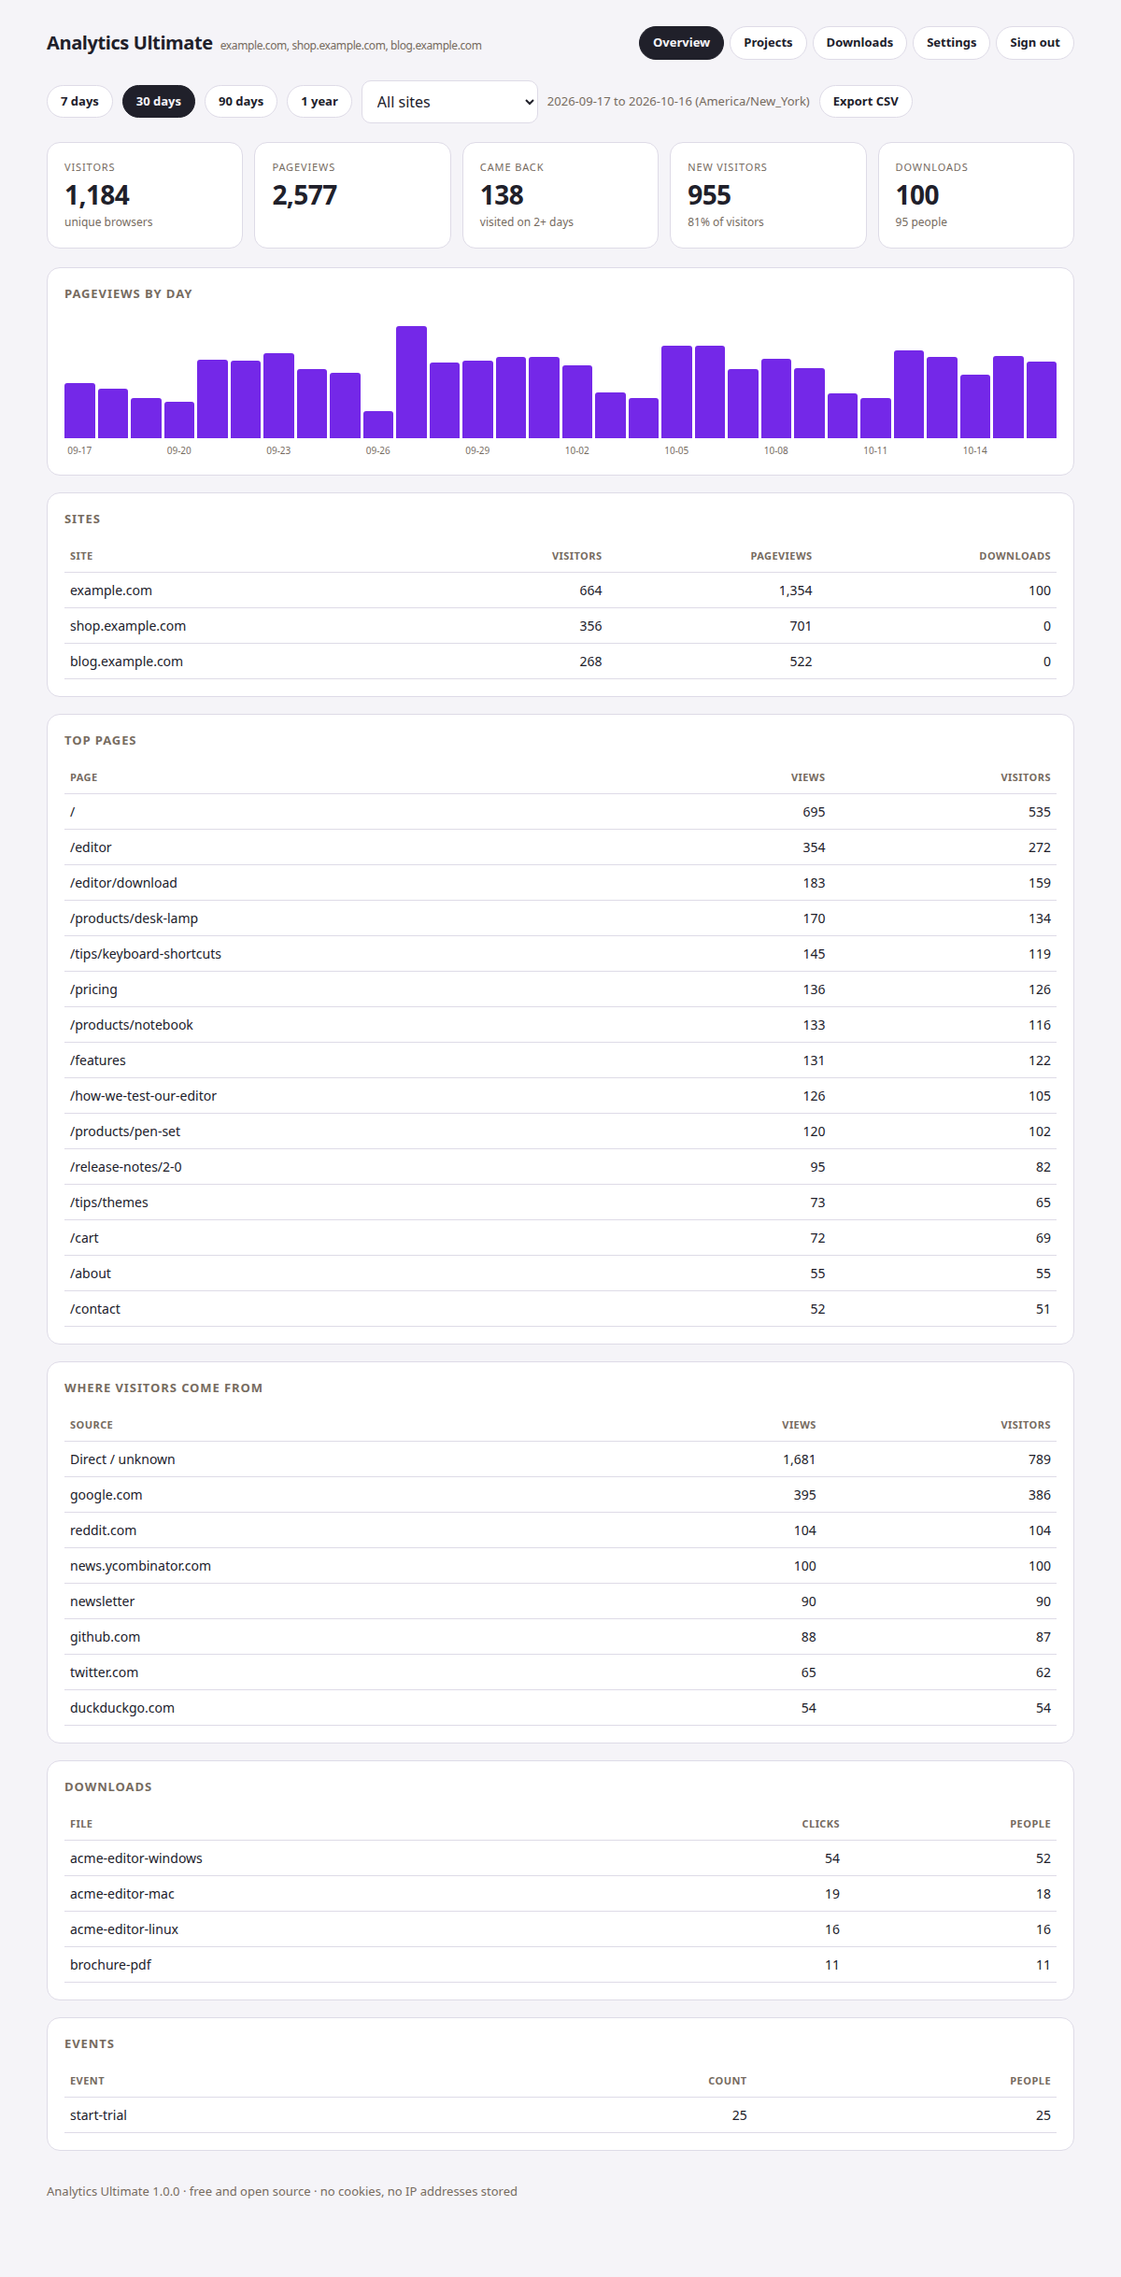
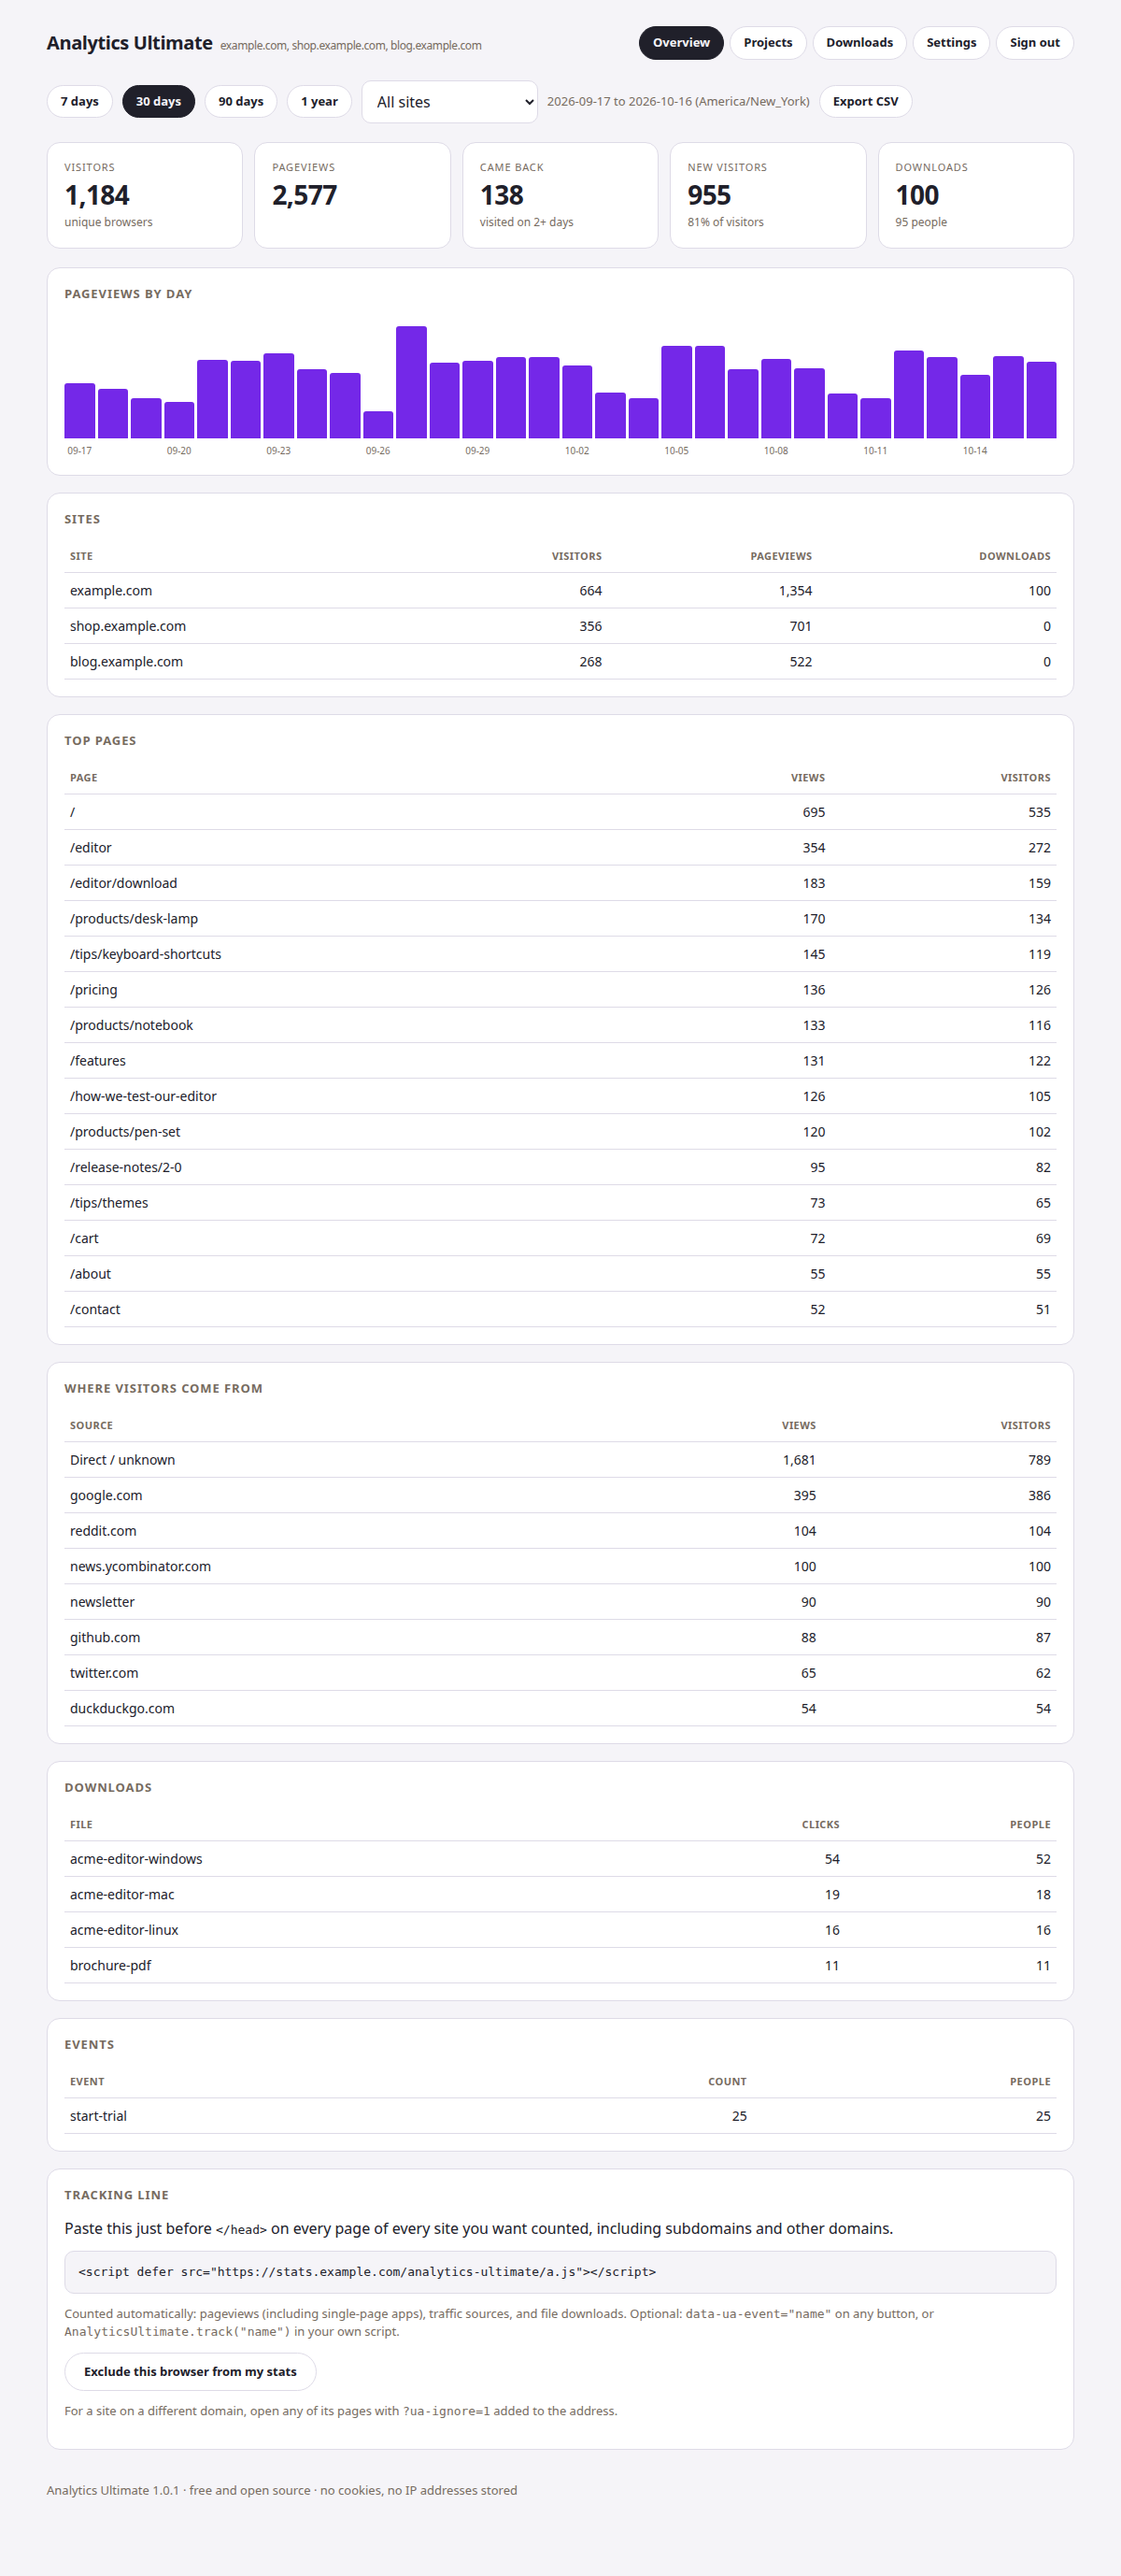
1.0.1: show the numbers first on every tab, controls underneath
Moves the project editor to the Projects tab, puts the tracked-link
manager below the download counts, and adds the tracking line under the
Overview. Screenshots and tests updated.

diff --git a/index.php b/index.php
@@ -192,6 +192,27 @@ function auc_table(array $rows, array $cols, string $empty = 'Nothing yet.'): vo
     echo '</table></div>';
 }
 
+function auc_tracking_panel(): void
+{
+    $snippet = '<script defer src="' . auc_base_url() . 'a.js"></script>';
+    echo '<div class="panel"><h2>Tracking line</h2><p>Paste this just before <code>&lt;/head&gt;</code> on every page of every site you want counted, including subdomains and other domains.</p>'
+        . '<pre>' . auc_h($snippet) . '</pre>'
+        . '<p class="muted">Counted automatically: pageviews (including single-page apps), traffic sources, and file downloads. '
+        . 'Optional: <code>data-ua-event="name"</code> on any button, or <code>AnalyticsUltimate.track("name")</code> in your own script.</p>'
+        . '<p><a class="btn secondary" href="ignore.php">Exclude this browser from my stats</a></p>'
+        . '<p class="muted">For a site on a different domain, open any of its pages with <code>?ua-ignore=1</code> added to the address.</p></div>';
+}
+
+function auc_projects_editor(array $cfg): void
+{
+    echo '<div class="panel"><h2>Edit projects</h2><p>Group pages and downloads into products or sections. One per line:</p>'
+        . '<pre>Name | sites | page starts with | download names start with</pre>'
+        . '<p class="muted">Leave a part empty to skip it. Example: <code>Shop | | /shop, /cart | shop-</code> or <code>Blog | blog.example.com | |</code></p>'
+        . '<form method="post">' . auc_csrf_field() . '<input type="hidden" name="tab" value="projects"><input type="hidden" name="action" value="save_groups">'
+        . '<textarea name="groups" rows="5">' . auc_h(auc_groups_to_text($cfg['groups'] ?? [])) . '</textarea>'
+        . '<p style="margin-top:14px"><button type="submit">Save projects</button></p></form></div>';
+}
+
 /* -------------------------------------------------------------------- page */
 auc_head('Dashboard');
 echo '<header class="top"><div class="brand">Analytics Ultimate<small>' . auc_h(implode(', ', array_slice($cfg['sites'], 0, 3))) . '</small></div><nav class="tabs">';
@@ -269,8 +290,9 @@ if ($tab === 'overview') {
         auc_table($ev, [['Event', 'name'], ['Count', 'n', 1], ['People', 'u', 1]]);
         echo '</div>';
     }
+    auc_tracking_panel();
     if ($t['views'] === 0 && !$sitesSeen) {
-        echo '<div class="msg">No data yet. Add the tracking line from <a href="' . auc_h(auc_url(['tab' => 'settings'])) . '">Settings</a> to your website, then visit it.</div>';
+        echo '<div class="msg">No data yet. Add the tracking line below to your website, then visit it.</div>';
     }
 }
 
@@ -278,7 +300,7 @@ if ($tab === 'projects') {
     $groups = $cfg['groups'] ?? [];
     if (!$groups) {
         echo '<div class="panel"><h2>Projects</h2><p>Projects let you group pages and downloads into products or sections and compare them side by side, '
-            . 'for example "Shop" = everything under <code>/shop</code>.</p><p>Add some in <a href="' . auc_h(auc_url(['tab' => 'settings'])) . '">Settings</a>.</p></div>';
+            . 'for example "Shop" = everything under <code>/shop</code>. Add your first one below.</p></div>';
     } else {
         $rows = [];
         foreach ($groups as $g) {
@@ -318,6 +340,8 @@ if ($tab === 'projects') {
         }
         echo '</table></div></div>';
     }
+
+    auc_projects_editor($cfg);
 }
 
 if ($tab === 'downloads') {
@@ -326,6 +350,11 @@ if ($tab === 'downloads') {
     foreach (auc_top($f, 'download', 'label', 500) as $r) {
         $counts[$r['name']] = $r;
     }
+    echo '<div class="panel"><h2>All downloads in this range</h2>';
+    auc_table(auc_top($f, 'download', 'label', 100), [['File or link', 'name'], ['Clicks', 'n', 1], ['People', 'u', 1]], 'No downloads recorded yet.');
+    echo '<p class="muted" style="margin-top:12px">Links to common file types (zip, exe, dmg, pdf and more) on your pages are counted automatically when clicked. '
+        . 'Tracked links (below) are the most reliable.</p></div>';
+
     echo '<div class="panel"><h2>Tracked download links</h2><p>Use these links on your website instead of linking to the file directly. '
         . 'The click is counted on the server, so it also catches "save link as", download managers and shared links, then visitors are sent straight to the file. '
         . 'They are also how you can move a file to another host (such as GitHub) without changing any page.</p>';
@@ -348,21 +377,10 @@ if ($tab === 'downloads') {
         . '<div style="flex:2;min-width:240px"><label>File address</label><input type="text" name="target" placeholder="https://example.com/files/my-app-setup.exe" required></div></div>'
         . '<label>Description (optional)</label><input type="text" name="label" placeholder="My App for Windows">'
         . '<p style="margin-top:14px"><button type="submit">Add link</button></p></form></div>';
-
-    echo '<div class="panel"><h2>All downloads in this range</h2>';
-    auc_table(auc_top($f, 'download', 'label', 100), [['File or link', 'name'], ['Clicks', 'n', 1], ['People', 'u', 1]], 'No downloads recorded yet.');
-    echo '<p class="muted" style="margin-top:12px">Links to common file types (zip, exe, dmg, pdf and more) on your pages are counted automatically when clicked. '
-        . 'Tracked links above are the most reliable.</p></div>';
 }
 
 if ($tab === 'settings') {
-    $snippet = '<script defer src="' . auc_base_url() . 'a.js"></script>';
-    echo '<div class="panel"><h2>Tracking line</h2><p>Paste this just before <code>&lt;/head&gt;</code> on every page of every site you want counted, including subdomains and other domains.</p>'
-        . '<pre>' . auc_h($snippet) . '</pre>'
-        . '<p class="muted">Counted automatically: pageviews (including single-page apps), traffic sources, and file downloads. '
-        . 'Optional: <code>data-ua-event="name"</code> on any button, or <code>AnalyticsUltimate.track("name")</code> in your own script.</p>'
-        . '<p><a class="btn secondary" href="ignore.php">Exclude this browser from my stats</a></p>'
-        . '<p class="muted">For a site on a different domain, open any of its pages with <code>?ua-ignore=1</code> added to the address.</p></div>';
+    auc_tracking_panel();
 
     echo '<div class="panel"><h2>Sites and preferences</h2><form method="post">' . auc_csrf_field() . '<input type="hidden" name="tab" value="settings"><input type="hidden" name="action" value="save_settings">'
         . '<label>Websites to track (one per line)</label><textarea name="sites" rows="4">' . auc_h(implode("\n", $cfg['sites'])) . '</textarea>'
@@ -374,13 +392,6 @@ if ($tab === 'settings') {
     echo '</select><div class="muted">Applies to new data. Records already stored keep the day they were saved on.</div>'
         . '<label>Delete data older than (months, 0 = keep forever)</label><input type="number" name="retention" min="0" max="120" value="' . (int) $cfg['retention_months'] . '">'
         . '<p style="margin-top:14px"><button type="submit">Save</button></p></form></div>';
-
-    echo '<div class="panel"><h2>Projects</h2><p>Group pages and downloads into products or sections. One per line:</p>'
-        . '<pre>Name | sites | page starts with | download names start with</pre>'
-        . '<p class="muted">Leave a part empty to skip it. Example: <code>Shop | | /shop, /cart | shop-</code> or <code>Blog | blog.example.com | |</code></p>'
-        . '<form method="post">' . auc_csrf_field() . '<input type="hidden" name="tab" value="settings"><input type="hidden" name="action" value="save_groups">'
-        . '<textarea name="groups" rows="5">' . auc_h(auc_groups_to_text($cfg['groups'] ?? [])) . '</textarea>'
-        . '<p style="margin-top:14px"><button type="submit">Save projects</button></p></form></div>';
 
     echo '<div class="panel"><h2>Password</h2><form method="post">' . auc_csrf_field() . '<input type="hidden" name="tab" value="settings"><input type="hidden" name="action" value="change_password">'
         . '<label>Current password</label><input type="password" name="current" autocomplete="current-password">'

diff --git a/lib/bootstrap.php b/lib/bootstrap.php
@@ -4,7 +4,7 @@
 if (!defined('AUC_ROOT')) {
     define('AUC_ROOT', dirname(__DIR__));
 }
-define('AUC_VERSION', '1.0.0');
+define('AUC_VERSION', '1.0.1');
 define('AUC_SCHEMA', 1);
 
 function auc_h($s): string

diff --git a/CHANGELOG.md b/CHANGELOG.md
@@ -1,5 +1,8 @@
 # Changelog
 
+## 1.0.1
+- Every tab now shows the numbers first, with the controls underneath: the project editor moved to the Projects tab, the tracked-link manager sits below the download counts, and the tracking line sits below the Overview.
+
 ## 1.0.0
 - First release: pageviews, visitors, returning visitors, traffic sources, file downloads and custom events.
 - Many sites, subdomains and domains in one install.

diff --git a/README.md b/README.md
@@ -53,7 +53,7 @@ look at one site at a time.
 
 ## Projects
 
-On Settings → Projects, one line per project: `Name | sites | page starts with | download names start with`.
+On the Projects tab, below the numbers, one line per project: `Name | sites | page starts with | download names start with`.
 For example:
 
 ```
